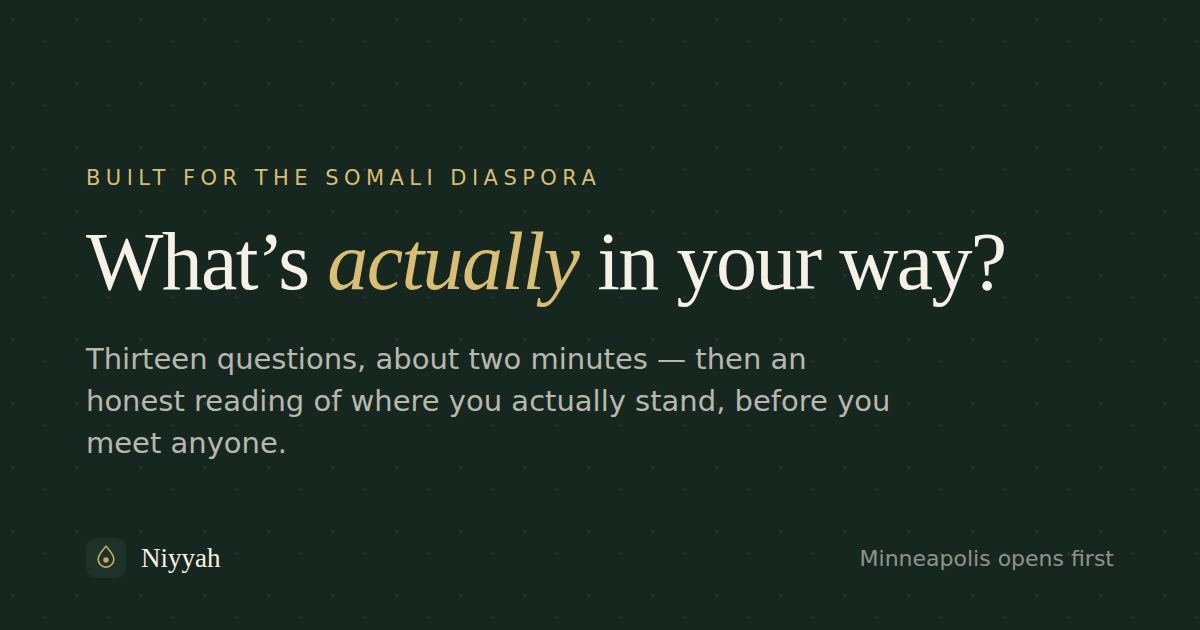
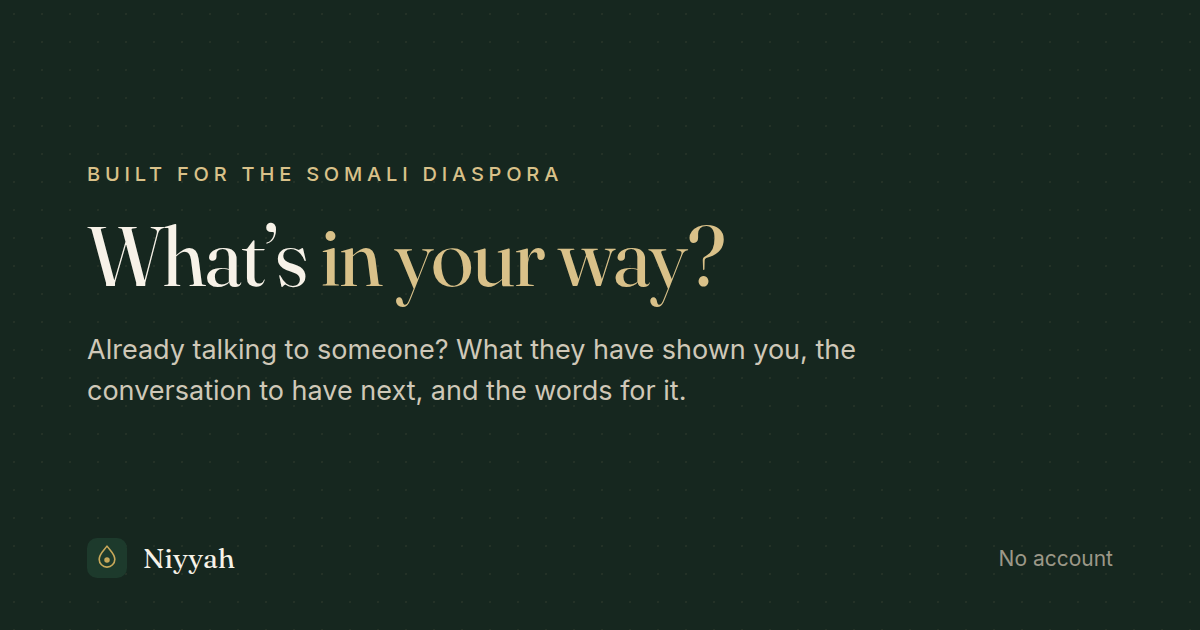
B2: say where her words go where they leave, keep her name on the phone, name who runs Niyyah
- The guide's header said "· private" while every message went to
  Anthropic. It now says "answered by Claude, made by Anthropic", or
  "answers on this phone" when on-device or past the budget.
- One shared line (GUIDE_SOURCE) sits under each place a tap sends to
  the live guide: Home's ask box, the read and eleven hand-offs, and
  "It went differently".
- Her first name travelled in the thread through the greeting and four
  offline fallbacks (PRIVACY C5). The client now sends history from
  her first message. The server drops leading guide turns after
  trimming. The fallbacks no longer use her name.
- Trust names the operator (VITE_OPERATOR_NAME, falling back to "its
  founder"), with a contact link and the right to complain.
- The link preview no longer promises Minneapolis or thirteen
  questions. It is re-rendered from the brand strings in the
  self-hosted fonts.
- The families tool no longer says "nothing recorded". The couple
  link now tells him his answers are kept for ninety days.

Claude-Session: https://claude.ai/code/session_01UfGByipwiTdTpGXSynzLKR

diff --git a/src/data/coach.ts b/src/data/coach.ts
@@ -50,6 +50,12 @@ export interface GuidanceMode {
   greeting: (ctx: CoachContext) => string
   starters: Starter[]
   intents: CoachIntent[]
+  /**
+   * Never her name: a fallback sits in the thread after her first message, and
+   * the thread goes to the live guide as history. The greeting may use it — it
+   * comes before her first message and never leaves the phone (src/lib/coach.ts,
+   * docs/PRIVACY.md C5).
+   */
   fallback: (ctx: CoachContext) => string
 }
 
@@ -198,8 +204,8 @@ The wish-list — the height, the salary, the perfect family — soften that. No
     },
     ...fit,
   ],
-  fallback: (ctx) =>
-    `Come, ${name(ctx) || 'my dear'}, tell your auntie properly — what did he say, what did you feel, what are you afraid of? Give me the real story and I’ll tell you what I see, the way someone who loves you does.`,
+  fallback: () =>
+    `Come, my dear, tell your auntie properly — what did he say, what did you feel, what are you afraid of? Give me the real story and I’ll tell you what I see, the way someone who loves you does.`,
 }
 
 // ── Big Brother ──────────────────────────────────────────────────────────────
@@ -267,8 +273,8 @@ You’re not asking to date her. You’re declaring serious, honourable intent. 
     },
     ...fit,
   ],
-  fallback: (ctx) =>
-    `Talk to me straight, ${name(ctx) || 'akhi'} — what’s the actual situation? What did you say, what did she say, where’s it stuck? Give me the details and I’ll tell you the move.`,
+  fallback: () =>
+    `Talk to me straight, akhi — what’s the actual situation? What did you say, what did she say, where’s it stuck? Give me the details and I’ll tell you the move.`,
 }
 
 // ── Therapist ────────────────────────────────────────────────────────────────
@@ -341,8 +347,8 @@ This passes. Nothing needs deciding while it is here. When it settles, we can th
 What matters is that your past doesn’t silently run the present. Notice when an old hurt is set off by a new person who has not earned that reaction. You can carry tenderness and still move forward, as long as you are honest about what is yours to carry. Be patient with yourself.`,
     },
   ],
-  fallback: (ctx) =>
-    `Whatever it is, ${name(ctx) || 'friend'}, you can put it down here. Tell me what you’re feeling and what set it off, and we’ll make sense of it slowly.`,
+  fallback: () =>
+    `Whatever it is, friend, you can put it down here. Tell me what you’re feeling and what set it off, and we’ll make sense of it slowly.`,
 }
 
 // ── Islamic Values ───────────────────────────────────────────────────────────
@@ -406,8 +412,8 @@ For a sister, the wali’s involvement is part of the path and a safeguard of he
 So look past charm to how they treat people: their parents, the waiter, those who can do nothing for them. Watch for honesty, gentleness, and God-consciousness in private, not just performance in public. Beauty and wealth fade; taqwa and good character are what you’ll lean on for fifty years.`,
     },
   ],
-  fallback: (ctx) =>
-    `Tell me what you’re navigating, ${name(ctx) || 'friend'}, and we’ll look at it through the lens of our deen — with intention, modesty, and mercy. (And for any ruling you need to be certain of, take it to a trusted scholar.)`,
+  fallback: () =>
+    `Tell me what you’re navigating, friend, and we’ll look at it through the lens of our deen — with intention, modesty, and mercy. (And for any ruling you need to be certain of, take it to a trusted scholar.)`,
 }
 
 export const modes: GuidanceMode[] = [

diff --git a/tests/guide-disclosure.test.ts b/tests/guide-disclosure.test.ts
@@ -1,6 +1,10 @@
 import { readFileSync } from 'node:fs'
-import { describe, expect, it } from 'vitest'
+import { describe, expect, it, vi } from 'vitest'
+import { fromHerTurn, guideRequest } from '../netlify/functions/guide'
 import { buildSystemPrompt, sanitiseContext } from '../netlify/shared/prompt'
+import { modes, type CoachContext } from '../src/data/coach'
+import { askCoach, fromFirstMessage } from '../src/lib/coach'
+import type { CoachMessage } from '../src/types'
 
 /**
  * Trust says "here is exactly what it sends". This is what keeps that word.
@@ -122,5 +126,65 @@ describe('what the Guide sends, and what Trust says it sends', () => {
         'Timeline',
       ].sort(),
     )
+  })
+})
+
+describe('her first name never leaves the phone with the thread', () => {
+  // docs/PRIVACY.md, C5. The prompt never carried it, but the thread did: the
+  // greeting opens every conversation with her name, and the thread went as
+  // history from its first turn (docs/DECISIONS.md, the completion review, B2).
+  const her: CoachContext = { identity: { firstName: 'Khadija', gender: 'woman', adult: true }, answers: {} }
+
+  it('no voice’s fallback line uses it, since a fallback sits after her first message', () => {
+    for (const mode of modes) {
+      expect(mode.greeting(her), mode.id).toContain('Khadija')
+      expect(mode.fallback(her), mode.id).not.toContain('Khadija')
+    }
+  })
+
+  it('sends the thread from her first message, so the greeting stays behind', async () => {
+    const bodies: string[] = []
+    vi.stubGlobal('fetch', async (_url: string, init: RequestInit) => {
+      bodies.push(String(init.body))
+      return new Response('Say it to him plainly.')
+    })
+    try {
+      for (const mode of modes) {
+        const thread: CoachMessage[] = [
+          { id: 'g', role: 'coach', text: mode.greeting(her) },
+          { id: 'u', role: 'user', text: 'He only texts me late at night' },
+          { id: 'f', role: 'coach', text: mode.fallback(her) },
+        ]
+        const reply = await askCoach('What do I say?', her, mode.id, thread)
+        expect(reply.live).toBe(true)
+      }
+    } finally {
+      vi.unstubAllGlobals()
+    }
+    expect(bodies).toHaveLength(modes.length)
+    for (const body of bodies) {
+      expect(body).not.toContain('Khadija')
+      const sent = JSON.parse(body) as { history: { role: string }[] }
+      expect(sent.history[0].role).toBe('user')
+      expect(sent.history).toHaveLength(2)
+    }
+  })
+
+  it('sends no history at all before she has written', () => {
+    expect(fromFirstMessage([{ id: 'g', role: 'coach', text: 'Salaam, Khadija.' }])).toEqual([])
+  })
+
+  it('opens what the model is handed with her, whatever an older client sends', () => {
+    // The server's own floor: an old client still sends the greeting, and a
+    // trimmed tail can begin with the guide's own words.
+    const old = guideRequest('auntie', {}, [
+      { role: 'coach', text: 'Kaalay, Khadija. Sit with your auntie a moment.' },
+      { role: 'user', text: 'He only texts me late at night' },
+      { role: 'coach', text: 'Then ask him why.' },
+    ], 'What do I say?')
+    expect(old.messages[0].role).toBe('user')
+    expect(JSON.stringify(old)).not.toContain('Khadija')
+    expect(fromHerTurn([{ role: 'coach', text: 'only me' }])).toEqual([])
+    expect(guideRequest('auntie', {}, [], 'hi').messages).toEqual([{ role: 'user', content: 'hi' }])
   })
 })

diff --git a/tests/ui/where-words-go.test.tsx b/tests/ui/where-words-go.test.tsx
@@ -1,0 +1,54 @@
+// @vitest-environment happy-dom
+import { afterEach, beforeEach, describe, expect, it, vi } from 'vitest'
+import App from '../../src/App'
+import { seedDemo } from '../../src/lib/demo'
+import { GUIDE_SOURCE } from '../../src/lib/coach'
+import { CONTACT_EMAIL, OPERATOR } from '../../src/lib/site'
+import { Phone, onPhone, reload } from '../support/device'
+import { mount } from '../support/render'
+import { blobs, serve } from '../support/server'
+
+vi.mock('@netlify/blobs', async () => (await import('../support/blobs')).blobsModule)
+
+/**
+ * Where her words go, said where they leave, and who answers for it.
+ *
+ * The guide's header said "private" while every message it sent went to
+ * Anthropic, Home's ask box sent without a word about where, and nothing
+ * named who runs Niyyah (docs/DECISIONS.md, the completion review, B2).
+ */
+
+beforeEach(() => {
+  blobs.reset()
+  serve()
+  onPhone(new Phone('notice'))
+  seedDemo()
+})
+afterEach(() => {
+  reload()
+  vi.unstubAllGlobals()
+})
+
+describe('where her words go', () => {
+  it('Home says who answers before she sends, and the guide says it in its header', async () => {
+    const m = await mount(<App entry={null} />)
+    expect(m.text()).toContain(GUIDE_SOURCE)
+    expect(GUIDE_SOURCE).toMatch(/Claude, made by Anthropic/)
+    await m.press(/^Talk to your guide/)
+    await m.press(/^Wise Auntie/)
+    expect(m.text()).toMatch(/answered by Claude, made by Anthropic/)
+    expect(m.text()).not.toMatch(/· private/)
+    m.unmount()
+  })
+
+  it('Trust names who runs Niyyah and how to reach them, set or not', async () => {
+    const m = await mount(<App entry={null} />)
+    await m.press(/^Your privacy/)
+    expect(OPERATOR.trim()).not.toBe('')
+    expect(m.text()).toContain(`Niyyah is run by ${OPERATOR}.`)
+    expect(m.text()).toMatch(/complain to the data-protection authority where you live/)
+    const mail = [...m.container.querySelectorAll('a')].find((a) => a.closest('section')?.textContent?.includes('Niyyah is run by'))
+    expect(mail?.getAttribute('href')).toBe(`mailto:${CONTACT_EMAIL}`)
+    m.unmount()
+  })
+})

diff --git a/src/components/Trust.tsx b/src/components/Trust.tsx
@@ -4,6 +4,7 @@ import { BackButton, Disclose, LockGlyph, Logo } from './ui'
 import ReportConcern from './ReportConcern'
 import ForgetMe, { type Forgot } from './ForgetMe'
 import { speak } from '../data/read'
+import { CONTACT_EMAIL, OPERATOR } from '../lib/site'
 
 interface Props {
   identity: Identity
@@ -251,6 +252,21 @@ export default function Trust({ identity, coupleCode, guideOnDevice, onGuideOnDe
 
         {/* Forget me — the control that makes every sentence above enforceable. */}
         <ForgetMe gender={identity.gender} onForget={onForget} className="mt-6" />
+
+        {/* Who answers for all of the above, and how to reach them. Nothing on
+            any screen named anyone, and the contact link lived only on Home
+            (docs/DECISIONS.md, the completion review, B2). */}
+        <section className="mt-6 rounded-card border border-line bg-white/60 p-6">
+          <h2 className="font-display text-[1.08rem] font-medium text-ink">Who runs Niyyah</h2>
+          <p className="mt-2 text-[0.92rem] leading-relaxed text-ink-soft text-pretty">
+            Niyyah is run by {OPERATOR}. To ask what we hold about you, to correct it, or to delete it,
+            write to{' '}
+            <a href={`mailto:${CONTACT_EMAIL}`} className="font-medium text-forest underline underline-offset-4">
+              {CONTACT_EMAIL}
+            </a>
+            . If we don’t put it right, you can complain to the data-protection authority where you live.
+          </p>
+        </section>
 
         {/* Community promise */}
         <section className="mt-6 rounded-card bg-forest p-6 text-cream">

diff --git a/src/lib/coach.ts b/src/lib/coach.ts
@@ -321,7 +321,10 @@ async function askLiveGuide(
           beforeYesNote: ctx.beforeYesNote,
         },
         message,
-        history: history.map((m) => ({ role: m.role, text: m.text })),
+        // From her first message on. What comes before it is the voice's
+        // greeting, which carries her first name — and a conversation the
+        // model is handed should open with her, not with itself.
+        history: fromFirstMessage(history).map((m) => ({ role: m.role, text: m.text })),
       }),
     })
     if (!res.ok || !res.body) return null
@@ -345,6 +348,20 @@ async function askLiveGuide(
   } finally {
     stopWaiting()
   }
+}
+
+/**
+ * Said wherever a tap sends her words to the live guide. The guide screen's
+ * header used to say "private" while it did, and Home's box, the results'
+ * hand-offs and "It went differently" sent without a word about where
+ * (docs/DECISIONS.md, the completion review, B2). Trust has the detail.
+ */
+export const GUIDE_SOURCE = 'Answered by Claude, made by Anthropic, unless you keep the guide on this phone (Trust).'
+
+/** The thread from her first message on; nothing if she has not written yet. */
+export function fromFirstMessage(history: CoachMessage[]): CoachMessage[] {
+  const first = history.findIndex((m) => m.role === 'user')
+  return first === -1 ? [] : history.slice(first)
 }
 
 export async function askCoach(

diff --git a/netlify/functions/guide.ts b/netlify/functions/guide.ts
@@ -154,6 +154,16 @@ export function trimHistory(turns: Turn[], limit: number): Turn[] {
 }
 
 /**
+ * The turns from her first on. A trimmed tail can begin with the guide's own
+ * words, and an old client sends the greeting, which carries her first name;
+ * either way the conversation the model is handed opens with her.
+ */
+export function fromHerTurn(turns: Turn[]): Turn[] {
+  const first = turns.findIndex((t) => t.role === 'user')
+  return first === -1 ? [] : turns.slice(first)
+}
+
+/**
  * Exactly what the guide sends the model for one message: the model, the
  * effort, the server-built prompt from the checked map, and the tail of the
  * thread. The handler streams it; the Guide's live evaluation sends the same
@@ -172,7 +182,7 @@ export function guideRequest(mode: string, context: unknown, history: Turn[], me
       // prompt, so old turns buy continuity, not context, and they are the
       // cheapest thing to drop: the last ten turns, and within them the most
       // recent characters.
-      ...trimHistory(history.slice(-10), MAX_HISTORY_CHARS).map((m) => ({
+      ...fromHerTurn(trimHistory(history.slice(-10), MAX_HISTORY_CHARS)).map((m) => ({
         role: (m.role === 'coach' ? 'assistant' : 'user') as 'assistant' | 'user',
         content: m.text,
       })),

diff --git a/src/components/BeforeYes.tsx b/src/components/BeforeYes.tsx
@@ -9,6 +9,7 @@ import { coupleLink, coupleReading, createCouple, readCouple, type CoupleView } 
 import { shareOrCopy } from '../lib/share'
 import { withVia } from '../lib/links'
 import { SITE_URL } from '../lib/site'
+import { GUIDE_SOURCE } from '../lib/coach'
 import ScriptCard, { CheckBack } from './ScriptCard'
 import { familyScriptsLine } from '../data/families'
 import InviteRow from './InviteRow'
@@ -452,7 +453,7 @@ function Result({
             >
               <span className="flex-1">
                 <span className="font-display text-[1.15rem] font-medium text-ink">Talk it through with your guide</span>
-                <span className="mt-0.5 block text-[0.88rem] text-muted text-pretty">It already knows which conversations you’ve had.</span>
+                <span className="mt-0.5 block text-[0.88rem] text-muted text-pretty">It already knows which conversations you’ve had. {GUIDE_SOURCE}</span>
               </span>
               <ArrowRight className="flex-none text-forest transition-transform group-hover:translate-x-0.5" />
             </button>

diff --git a/src/components/Read.tsx b/src/components/Read.tsx
@@ -3,6 +3,7 @@ import { answeredOf, clearDraft, loadDraft, resumeIndex, saveDraft } from '../li
 import type { Gender, Identity, ReadRecord } from '../types'
 import { EXAMPLE_ANSWERS, readQuestions, scriptFor } from '../data/read'
 import { buildRead, type DimensionState, type ReadResult } from '../lib/read'
+import { GUIDE_SOURCE } from '../lib/coach'
 import ScriptCard, { CheckBack } from './ScriptCard'
 import { familyScriptsLine } from '../data/families'
 import InviteRow from './InviteRow'
@@ -596,7 +597,7 @@ function Result({
                 Talk it through with your guide
               </span>
               <span className="mt-0.5 block text-[0.88rem] text-muted text-pretty">
-                It already knows what this read said. Ask it the thing you did not want to ask a friend.
+                It already knows what this read said. Ask it the thing you did not want to ask a friend. {GUIDE_SOURCE}
               </span>
             </span>
             <ArrowRight className="flex-none text-forest transition-transform group-hover:translate-x-0.5" />

diff --git a/src/components/home/FollowUp.tsx b/src/components/home/FollowUp.tsx
@@ -1,6 +1,7 @@
 import { useState } from 'react'
 import type { FollowUp as FollowUpRecord } from '../../types'
 import type { FollowUpAsk } from '../../lib/followup'
+import { GUIDE_SOURCE } from '../../lib/coach'
 import { shareOrCopy } from '../../lib/share'
 import { wordsMessage } from '../../lib/words'
 import ScriptCard from '../ScriptCard'
@@ -63,6 +64,11 @@ export default function FollowUp({ ask, onAnswer, onAskGuide }: Props) {
               It went differently
             </button>
           </div>
+        )}
+        {phase === 'asking' && (
+          <p className="mt-2.5 text-[0.8rem] leading-snug text-muted text-pretty">
+            “It went differently” opens your guide. {GUIDE_SOURCE}
+          </p>
         )}
 
         {phase === 'howd-it-go' && (

diff --git a/src/components/Coach.tsx b/src/components/Coach.tsx
@@ -439,7 +439,9 @@ export default function Coach({
           <h1 className="font-display text-[1.05rem] font-medium leading-tight text-ink">
             {activeMode.label}
           </h1>
-          <p className="text-[0.78rem] text-muted">{activeMode.tagline} · private</p>
+          <p className="text-[0.78rem] text-muted">
+            {activeMode.tagline} · {onDeviceOnly || locked ? 'answers on this phone' : 'answered by Claude, made by Anthropic'}
+          </p>
           {/* No counter here. One used to appear from halfway — "6 replies left
               this month" — and open the subscription screen. A counter on a
               guide is a pressure gauge, and the thing it sold was the guide

diff --git a/src/lib/site.ts b/src/lib/site.ts
@@ -46,3 +46,12 @@ export const SITE_URL = `https://${SITE_HOST}`
  * provider's domain is the last rented thing a member uses to reach us.
  */
 export const CONTACT_EMAIL = import.meta.env.VITE_CONTACT_EMAIL || 'salaam@joinniyyah.com'
+
+/**
+ * Who runs Niyyah, as Trust names it: the person or company answerable for
+ * what is held (docs/DECISIONS.md, the completion review, B2). A setting, not a
+ * constant, like the contact address: a personal name stays out of this
+ * public repository's history, and becoming a company later needs no commit.
+ * Production must set it; the default says only that one person runs it.
+ */
+export const OPERATOR = import.meta.env.VITE_OPERATOR_NAME || 'its founder'

diff --git a/src/components/Home.tsx b/src/components/Home.tsx
@@ -7,6 +7,7 @@ import { momentsFor } from '../data/moments'
 import { SinceLastTime } from './home/FollowUp'
 import StageBand from './home/StageBand'
 import { CONTACT_EMAIL } from '../lib/site'
+import { GUIDE_SOURCE } from '../lib/coach'
 import {
   CompassGlyph,
   GlyphTile,
@@ -254,7 +255,7 @@ export default function Home({
             </div>
           </form>
           <p className="mt-2.5 text-[0.8rem] text-muted text-pretty">
-            You don’t pick a guide — we read what you said and open the right one.
+            You don’t pick a guide — we read what you said and open the right one. {GUIDE_SOURCE}
           </p>
         </section>
         )}
